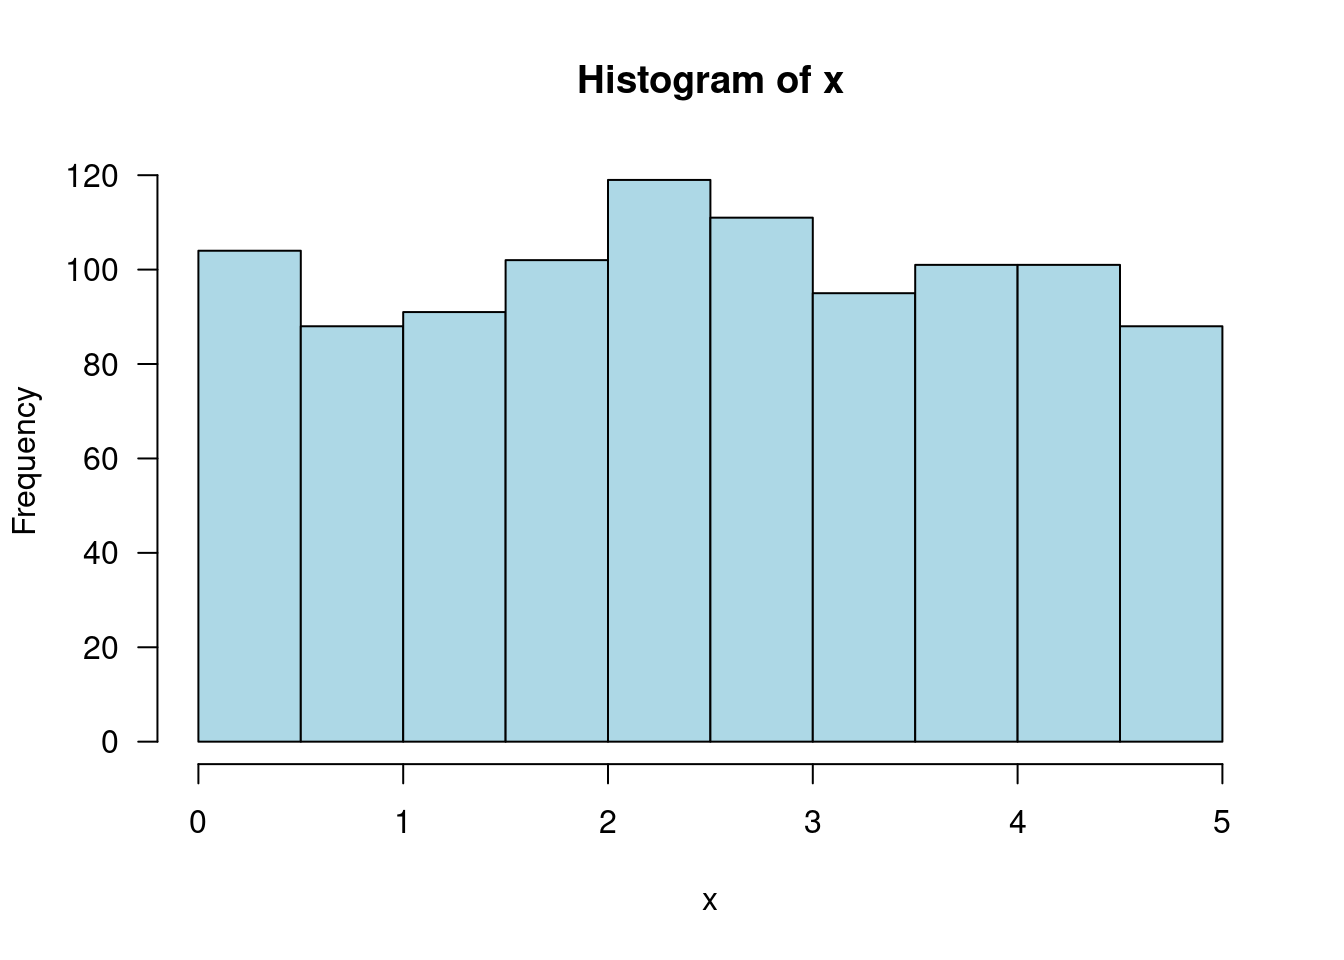
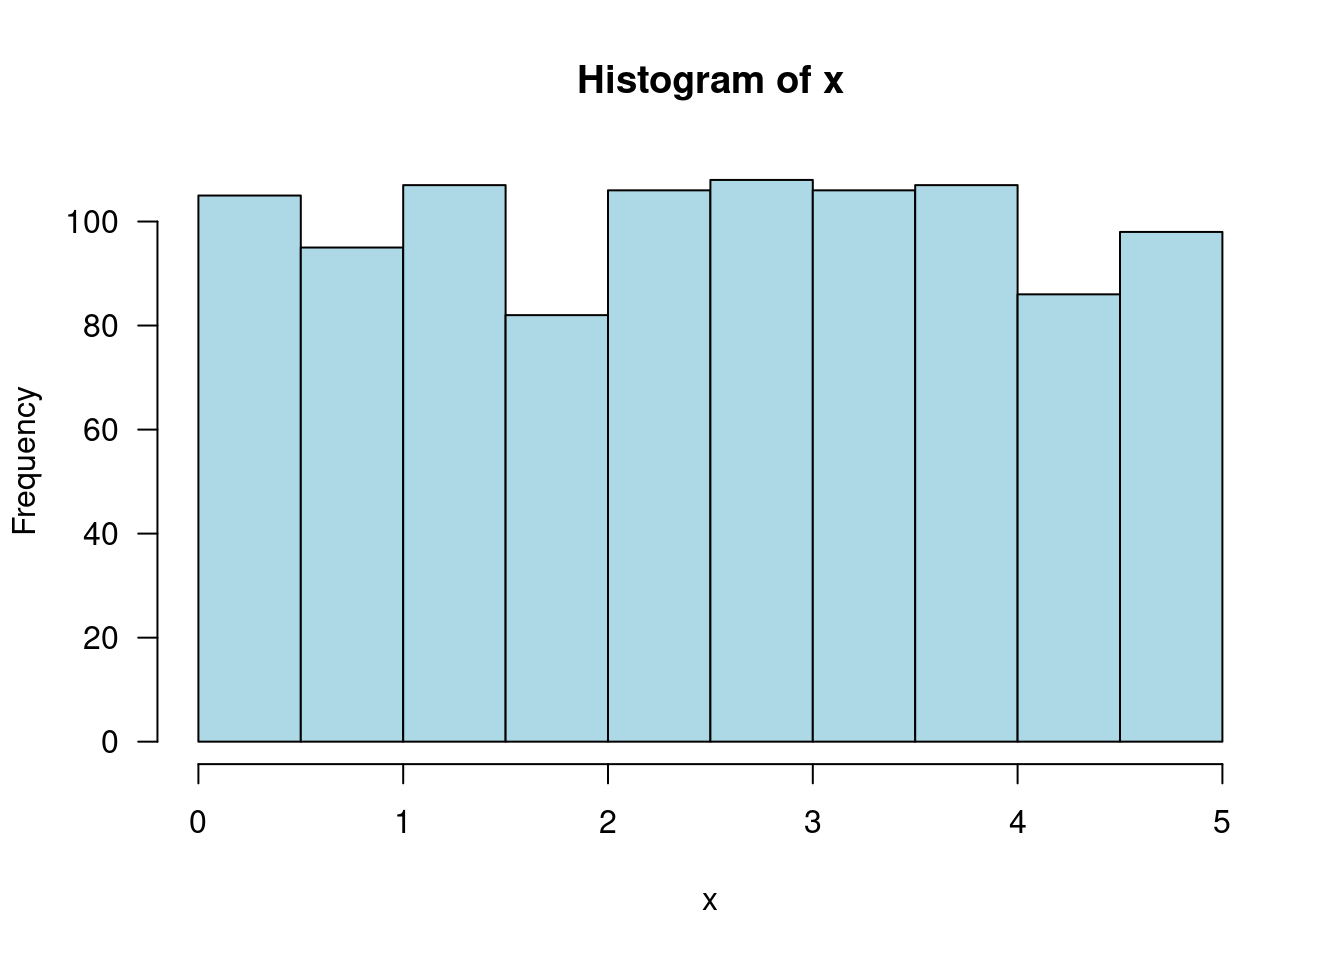
Deploying to gh-pages from @ jtr13/1201@bf9c817c3a89d9645738fd55608ecedca42073c5 🚀

diff --git a/ch.-4-continuous-random-variables-and-probability-distributions.html b/ch.-4-continuous-random-variables-and-probability-distributions.html
@@ -80,12 +80,12 @@
 <p><span class="math inline">\(f(x) = .2\)</span> for <span class="math inline">\(0 \leq x \leq 5\)</span>, 0 otherwise.</p>
 <div class="sourceCode" id="cb161"><pre class="downlit sourceCode r">
 <code class="sourceCode R"><span><span class="fu"><a href="https://rdrr.io/r/stats/Uniform.html">runif</a></span><span class="op">(</span>n <span class="op">=</span> <span class="fl">1</span>, min <span class="op">=</span> <span class="fl">0</span>, max <span class="op">=</span> <span class="fl">5</span><span class="op">)</span></span></code></pre></div>
-<pre><code>## [1] 1.624856</code></pre>
+<pre><code>## [1] 1.570607</code></pre>
 <p>Take the average of 1000 picks:</p>
 <div class="sourceCode" id="cb163"><pre class="downlit sourceCode r">
 <code class="sourceCode R"><span><span class="va">x</span> <span class="op">&lt;-</span> <span class="fu"><a href="https://rdrr.io/r/stats/Uniform.html">runif</a></span><span class="op">(</span>n <span class="op">=</span> <span class="fl">1000</span>, min <span class="op">=</span> <span class="fl">0</span>, max <span class="op">=</span> <span class="fl">5</span><span class="op">)</span></span>
 <span><span class="fu"><a href="https://rdrr.io/r/base/mean.html">mean</a></span><span class="op">(</span><span class="va">x</span><span class="op">)</span></span></code></pre></div>
-<pre><code>## [1] 2.491833</code></pre>
+<pre><code>## [1] 2.484108</code></pre>
 <p>Draw a histogram of the 1000 picks:</p>
 <div class="sourceCode" id="cb165"><pre class="downlit sourceCode r">
 <code class="sourceCode R"><span><span class="fu"><a href="https://rdrr.io/r/graphics/hist.html">hist</a></span><span class="op">(</span><span class="va">x</span>, las <span class="op">=</span> <span class="fl">1</span>, col <span class="op">=</span> <span class="st">"lightblue"</span><span class="op">)</span></span></code></pre></div>

diff --git a/ch.-12-linear-regression.html b/ch.-12-linear-regression.html
@@ -160,7 +160,7 @@
 <div id="resources-3" class="section level3 unnumbered" number="">
 <h3>Resources<a class="anchor" aria-label="anchor" href="#resources-3"><i class="fas fa-link"></i></a>
 </h3>
-<p>Interactive visualization: <a href="https://jtr13.github.io/D3/CorrelationCoefficient.html">Correlation Coefficient</a> (add and remove points)</p>
+<p>Interactive visualization: <a href="https://1201.info/ch.-5-joint-probability.html#interactive">Correlation Coefficient</a> (add and remove points)</p>
 <p>Interactive visualization: <a href="https://rpsychologist.com/d3/correlation/">Interpreting Correlations</a> [contributed by Dario G.]</p>
 </div>
 <div id="r-5" class="section level3 unnumbered" number="">
